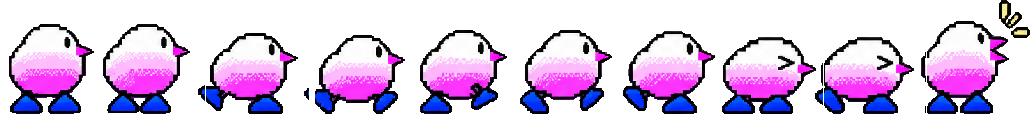
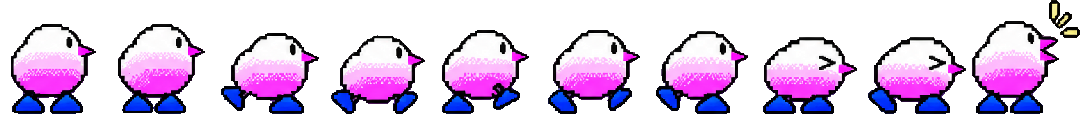
Clean bird crops; stall 3-5 ghosts standing beside their stalls
- New 'components' split in prep-sprites: one connected shape per frame
  (plus its small bits), masked, so overlapping neighbours are never
  copied in. Used for the bird side and front rows.
- New 'checker' background mode removes a baked-in transparency
  checkerboard (zombie sheet).
- Dancing ghost (stall 3, 6 frames), zombie (stall 4, 4 frames) and baby
  ghost (stall 5, 2 frames) from Drive stand on the ground to the right of
  their stall. Stalls now stop at x 44 so the ghost fits before the bird.

Claude-Session: https://claude.ai/code/session_01GfLpN3GUHf8D7yq5maBAzC

Changed region(s): [[0.0, 0.0263, 1.0, 1.0], [0.0, 0.3421, 0.0311, 0.3684], [0.0, 0.2895, 0.0311, 0.3158]]

diff --git a/src/config/constants.js b/src/config/constants.js
@@ -48,7 +48,7 @@ export const SHAKE_LAST_S = 15;
 // ---- Layout (spec 7.4, all ASSUMPTIONS, tune visually) ----
 export const GROUND_Y = 240; // same in every background
 export const BIRD_X = 118;
-export const STALL_STOP_X = 52; // stall centre when the world stops
+export const STALL_STOP_X = 44; // stall centre when the world stops (spec ~52; 44 leaves room for the ghost beside it)
 export const RUN_SPEED_PX_S = 48; // ASSUMPTION: world scroll speed during auto-run
 export const WALK_SPEED_PX_S = 24; // ASSUMPTION: slower walk before stalls 1 and 2 (no timer, no fail)
 export const WALK_SEGMENT_S = 6;
@@ -69,6 +69,7 @@ export const MINIGAME_DIM_OUT_MS = 900;
 export const STALL_H = 64;
 export const STALL_COUNTER_Y = 40;
 export const STALL_KIND = { 1: 'A', 2: 'B', 3: 'A', 4: 'B', 5: 'C' }; // A yellow, B magenta, C black/yellow
+export const STALL_GHOST_OFFSET_X = 42; // stalls 3-5: ghost centre this far right of the stall centre (stall is 64 wide)
 export const GHOST_SINK = 12; // ghost bottom this far below the counter top: head and shoulders show above it
 export const FAR_PARALLAX = 0.5; // ASSUMPTION: far layer scroll factor
 export const SPRINT_DISTANCE_PX = 360; // ASSUMPTION: scroll covered by a full sprint meter
@@ -76,7 +77,7 @@ export const CHASER_X_BY_STAGE = [200, 188, 178, 170, 164]; // ASSUMPTION: centr
 export const CHASER_HOVER_Y = GROUND_Y - 48; // ASSUMPTION: floating ghost, centre y (frames are 87 px tall)
 // Where the bird's centre sits inside the flipped Krahang-riding-bird frame (0..1).
 export const CLING_COMBO_ORIGIN_X = 0.35; // ASSUMPTION, tune visually
-export const JAR_XS = [32, 72]; // ~40 px apart, on stall 2's counter (stall centre x 52)
+export const JAR_XS = [STALL_STOP_X - 20, STALL_STOP_X + 20]; // 40 px apart, on stall 2's counter
 export const JAR_TABLE_Y = GROUND_Y - 24 + 2; // jar bottom sits on stall 2's counter top
 export const SHAKE_INTENSITY = 0.006; // ~1 px at 180 px wide
 

diff --git a/src/assets/manifest.js b/src/assets/manifest.js
@@ -37,10 +37,10 @@ export const MANIFEST = [
   // From the bird sheet extras: the Krahang riding the bird (cling pose for S1), faces right.
   { key: 'bird_krahang_cling', file: 'bird_krahang_cling.png', frameWidth: 42, frameHeight: 32, frames: 1, facing: 'right', existing: true },
   { key: 'chaser', file: 'chaser.png', frameWidth: 64, frameHeight: 64, frames: 7, facing: 'right', existing: true },
-  // TODO(open item 3): which ghost types staff stalls 3 to 5.
-  { key: 'stall_ghost_3', file: 'stall_ghost_3.png', frameWidth: 32, frameHeight: 48, frames: 2 },
-  { key: 'stall_ghost_4', file: 'stall_ghost_4.png', frameWidth: 32, frameHeight: 48, frames: 2 },
-  { key: 'stall_ghost_5', file: 'stall_ghost_5.png', frameWidth: 32, frameHeight: 48, frames: 2 },
+  // Stall ghosts (Drive): dancing ghost (stall 3), zombie (stall 4), baby ghost (stall 5).
+  { key: 'stall_ghost_3', file: 'stall_ghost_3.png', frameWidth: 28, frameHeight: 46, frames: 6, existing: true },
+  { key: 'stall_ghost_4', file: 'stall_ghost_4.png', frameWidth: 31, frameHeight: 40, frames: 4, existing: true },
+  { key: 'stall_ghost_5', file: 'stall_ghost_5.png', frameWidth: 24, frameHeight: 38, frames: 2, existing: true },
 
   // Props
   // Existing jar sheet (seen in chat): closed, shake x2, ghost x2, letter x2.
@@ -98,7 +98,8 @@ export const FRAMES = {
   angel: { idle: [0, 1, 2, 3], talk: [4, 5], signature: [6], wave: [7, 8] },
   krahang: { jumpOn: [0, 1, 2], cling: [3, 4], flung: [5, 6, 7] },
   chaser: { float: [0, 1, 2, 3, 4, 5], openMouth: 6 },
-  stallGhost: { idle: [0, 1] },
+  // Idle loop per stall ghost: frames and frame rate.
+  stallGhost: { 3: { frames: [0, 1, 2, 3, 4, 5], rate: 5 }, 4: { frames: [0, 1, 2, 3], rate: 4 }, 5: { frames: [0, 1], rate: 3 } },
   jar: { closed: 0, shake: [1, 2], ghost: [3, 4], letter: [5, 6] },
   choice: { normal: 0, pressed: 1 },
   arrow: [0, 1],

diff --git a/src/scenes/TrickOrTreatScene.js b/src/scenes/TrickOrTreatScene.js
@@ -111,7 +111,7 @@ export class TrickOrTreatScene extends Phaser.Scene {
     mk('jar_shake', 'jar', FRAMES.jar.shake, 12);
     mk('jar_ghost', 'jar', FRAMES.jar.ghost, 8);
     mk('jar_letter', 'jar', FRAMES.jar.letter, 6);
-    for (const n of [3, 4, 5]) mk(`stall_ghost_${n}_idle`, `stall_ghost_${n}`, FRAMES.stallGhost.idle, 3);
+    for (const n of [3, 4, 5]) mk(`stall_ghost_${n}_idle`, `stall_ghost_${n}`, FRAMES.stallGhost[n].frames, FRAMES.stallGhost[n].rate);
   }
 
   // ---------- async helpers (never resolve after the run has ended) ----------
@@ -478,10 +478,12 @@ export class TrickOrTreatScene extends Phaser.Scene {
       let ghost;
       if (n === 1) ghost = this.add.sprite(x, ghostBottom, 'krahang', FRAMES.krahang.jumpOn[0]).setOrigin(0.5, 1);
       else if (n === 2) ghost = this.add.sprite(x, C.JAR_TABLE_Y, 'jar', FRAMES.jar.closed).setOrigin(0.5, 1);
-      else ghost = this.add.sprite(x, ghostBottom, `stall_ghost_${n}`, 0).setOrigin(0.5, 1).play(`stall_ghost_${n}_idle`);
+      // Stalls 3-5: the ghost stands on the ground next to the stall's right side, facing the camera.
+      else ghost = this.add.sprite(x + C.STALL_GHOST_OFFSET_X, C.GROUND_Y, `stall_ghost_${n}`, 0).setOrigin(0.5, 1).play(`stall_ghost_${n}_idle`);
       const front = this.add.image(x, C.GROUND_Y, `stall_${kind}_front`).setOrigin(0.5, 1);
       // The jar sits ON the counter, so it goes above the front.
-      this.world.add(n === 2 ? [booth, front, ghost] : [booth, ghost, front]);
+      // Stall 2's jar sits on the counter and stalls 3-5 ghosts stand in front, so both go above the front.
+      this.world.add(n === 1 ? [booth, ghost, front] : [booth, front, ghost]);
       return { booth, ghost, front };
     });
     // Minigame dim layer: inside the world, above stalls and scenery. Jars are added

diff --git a/scene2-spec.md b/scene2-spec.md
@@ -101,7 +101,7 @@ Scene 2 must run standalone with a placeholder bird so it can be built before sc
 - Layout numbers are ASSUMPTIONS, tune visually. Ground line at y = 240 in every background. Bird 32 px tall, stalls 64 px, chaser about 87 px (existing art).
 - Top area (y 8 to 160): timer bar (y 8 to 16), chatbox (y 24 to 84), reply buttons (y 88 to 166).
 - Bottom area (below y 240): foreground road and the tap meter (about y 270). Tapping works anywhere on screen.
-- Stalls 1 to 5 use stall art A, B, A, B, C. Draw order: stall, ghost/staff, stall_front (rows y >= 40), so the ghost stands behind the counter with head and shoulders above y = 40. The stall 2 jar sits on the counter.
+- Stalls 1 to 5 use stall art A, B, A, B, C. Draw order: stall, (stall 1 Krahang behind the counter), stall_front, then the stall 2 jar on the counter or the stall 3-5 ghost standing on the ground to the stall's right. Stalls stop at x 44.
 - Atmosphere: drifting fog over the ground band and a black gradient from the top and bottom edges, leaving the centre third of the screen (y 107-213) at normal lighting (fx_fog, fx_vignette). During the stall 1 and 2 minigames the scene fades dark (MINIGAME_DIM_*) with the characters lit above it, and fades back when the minigame ends.
 - Background follows the real route (ASSUMPTION for the split): inside the soi until stall 4, then the soi exit and the street with a 7-Eleven-style shop for stall 5 and the sprint, then the white light entrance.
 - The chaser is behind the player on the RIGHT and faces left, closes in by position at the CHASER_STAGE_REMAINING_S thresholds; below 15 s it switches to the open-mouth frame and the screen shakes.
@@ -205,7 +205,7 @@ Sources: Drive folder เกมลานนภา/Scene_2_Sprite, downloaded unc
 | angel_halo / glint / poof | 16 x 13, 8 x 8, 32 x 28 | 1, 3, 4 | From sprite_jayimpact_fx (no green) |
 | krahang.png | ~29 x 33 | 8 | jump-on 3, cling 2, flung 3; faces right, flipped in code |
 | chaser.png | ~61 x 87 | 7 | float 6, open mouth 1; faces right. TODO: which of the two designs |
-| stall_ghost_3/4/5.png | 32 x 48 | 2 each | Ghost types TODO. SPRITE NEEDED |
+| stall_ghost_3/4/5.png | ~28x46, 31x40, 24x38 | 6, 4, 2 | Dancing ghost (stall 3), zombie (stall 4, checkerboard removed), baby ghost (stall 5). Stand on the ground to the right of their stall, facing the camera |
 | jar.png | ~28 x 50 | 7 | closed, shake 2, ghost 2, letter 2 |
 | letter_icon.png, letter_panel.png | 16 x 13, 140 x 92 | 1 | Panel text is drawn in code |
 | stall_A/B/C.png, stall_X_front.png | 64 x 64, 64 x 24 | 1 | From sprite_stall_2_3_4_192x64 (A yellow, B magenta, C black/yellow); counter at y 40; front = rows y >= 40 |
@@ -228,7 +228,7 @@ Sources: Drive folder เกมลานนภา/Scene_2_Sprite, downloaded unc
 
 1. Interfaces with scene 1 developer (section 3) and framework match.
 2. Serithai licence for web embedding.
-3. Which three ghost types staff stalls 3, 4 and 5; stall 1/2 name tags (placeholders กระหัง, ผีในไห).
+3. Name tags for all stall ghosts (placeholders กระหัง, ผีในไห, ผีซุ้ม 3/4/5).
 4. Which chaser design (sprite_chasingghost_1 or _2).
 5. alley_far is missing; props need resizing to the table sizes (or the table updated); alley_near seam.
 6. Pick time limit (none assumed), jar swap counts, walk speed and all tap constants are starting values.
